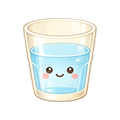
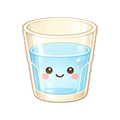
Add files via upload

diff --git a/index.html b/index.html
@@ -9,7 +9,7 @@
     <meta name="theme-color" content="#C8986A"/>
     <title>小麥寶寶</title>
 <link rel="apple-touch-icon" href="/xiamai-baby/apple-touch-icon.jpg"/>
-    <script type="module" crossorigin src="/xiamai-baby/assets/index-BpdPgyZ-.js"></script>
+    <script type="module" crossorigin src="/xiamai-baby/assets/index-CDEFMEMm.js"></script>
   </head>
   <body>
     <div id="root"></div>